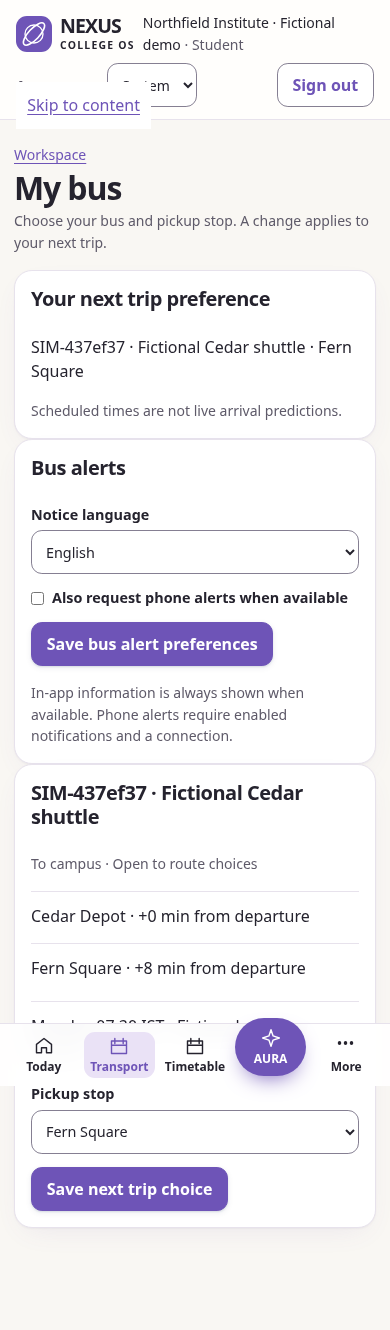
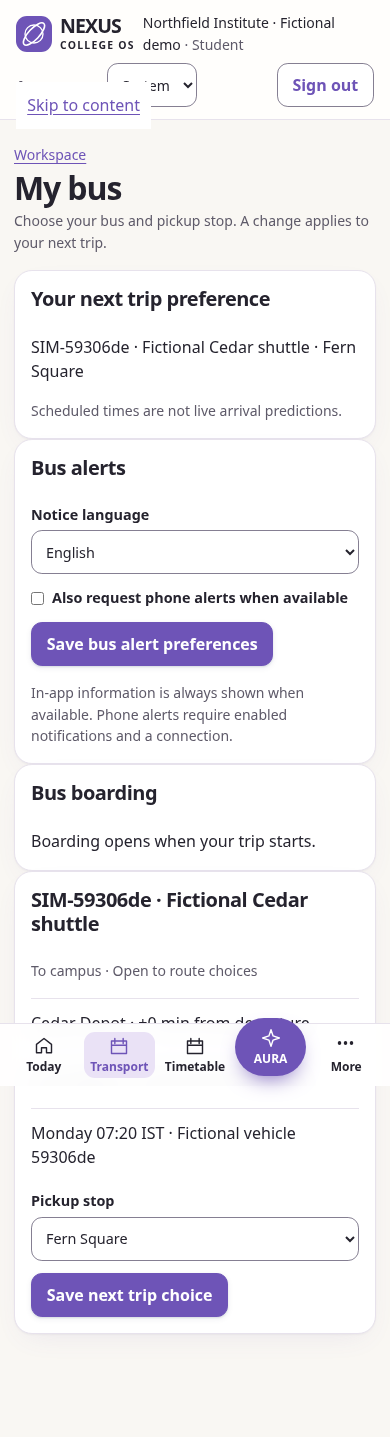
Record transport verification, mobile screenshots and integration gates

diff --git a/docs/evidence/transport-2026-11-28/README.md b/docs/evidence/transport-2026-11-28/README.md
@@ -1,0 +1,31 @@
+# Transport verification, 28 November 2026
+
+Base `a7316dd34e150c44b5ff5d39f49e8d71ab621442`. All testing used local PostgreSQL and fictional data, not real GPS or institution records.
+
+## Full run and targeted evidence
+
+| Evidence | Observed result |
+| --- | --- |
+| Fresh migrations on full-run code `2e1b0e1`, twice | 53 applied; second run no-op (includes 055–067) |
+| Seed, lint, typecheck, production build on `2e1b0e1` | Passed |
+| Node/PostgreSQL full suite on `2e1b0e1` | 174 passed |
+| Default browser suite on `2e1b0e1` | 56 passed, 11 skipped, 3 failed |
+| Synthetic transport browser suite, at 390 px on `2e1b0e1` | 2 passed, no horizontal overflow. Explicit simulation flag enabled for the otherwise skipped boarding case |
+| Tutor fixture on `2e1b0e1` | 1 passed |
+| Direct stock-form endpoint in the `2e1b0e1` production build | Loopback receipt and persistence, no active-trip writes, duplicate ACK, default knots conversion, missing/revoked binding denial |
+| Current targeted transport suite on `932c7ec` | 20 passed; migrations twice and baseline seed passed |
+| Direct parked-driver endpoint in the `932c7ec` production build | Loopback: denies inactive, unbound, missing or moving readings; permits two fresh stopped readings; coalesces repeat |
+| Separate fictional loader `de22e14` | 2 successful runs; verified 4 routes, 20 stops, 4 vehicles, 3 drivers, 10 choices, 4 simulated trips |
+
+The default browser failures were the known narrow timetable overflow (323 px at a 320 px viewport), an assignment message returning unread on reload (also observed on an earlier audit head), and the shared `app/chrome.tsx` insertion displacing Evaluation queue on the faculty mobile dock when Transport exists. The owner's correction forbids editing Chrome. The latter behavior and the required integration remedy are documented in the ledger. Do not describe this as a green repository run.
+
+The QR browser test confirms the **display** and the signed payload submitted by paste. A real camera scan on Android, HTTPS deployment, actual device tracking, removal schedules, phone delivery and institutional approval were not tested.
+
+## Actual 390 px browser captures
+
+- [First-run picker](transport-first-run-picker-390.png)
+- [Saved bus and stop after reload](transport-choice-390.png)
+- [Fictional device screen](transport-boarding-screen-390.png)
+- [Fictional rider boarding and estimated seat count](transport-rider-boarded-390.png)
+
+[Local transport handoff and outstanding integration requirements](../../TRANSPORT_LOCAL_HANDOFF.md).

diff --git a/docs/TRANSPORT_DISRUPTIONS_5B.md b/docs/TRANSPORT_DISRUPTIONS_5B.md
@@ -1,5 +1,5 @@
 # Transport 5b: disruption notice implementation handoff
-Status: deterministic copy and decision helpers locally tested. No app wiring, migration, PR, delivery, institutional permission, or working production integration.
+Status: local branch has bilingual in-app notices and receipts, an office ledger, parked-driver device gating, replacement estimates and onboard accident check-in. Scoped tests were run with fictional data. The attendance adapter, unattended worker and real institutional/device/phone-delivery approval are not established. No push, deployment or real tracking.
 
 ## States and ownership
 - Start from the authoritative trip and current route revision, not a browser-declared vehicle. For driver actions, resolve the bound boarding device and active trip, lock that trip and recheck fresh bus-owned stationary evidence; no rider backup or stale speed qualifies. If not provable, disable driver incident reporting with a clear reason and keep the office path available. Office uses an active transport grant.
@@ -24,5 +24,5 @@ Status: deterministic copy and decision helpers locally tested. No app wiring, m
 - [OSMF raster tile policy](https://operations.osmfoundation.org/policies/tiles/): use optional, lazy HTTPS tiles on visible map only, with attribution, caching and valid referer. No offline downloads/prefetch; do not send private stop labels or telemetry in tile URLs. Audit the app's global referrer policy before enabling the map; any override in shared headers belongs to integration. Text route must stay usable without maps.
 - Rider backup location must remain off until separate consent/college approval. Update the earlier bus-only privacy draft before distribution if that optional feature enters the approved pilot; track no rider location for boarding/SOS. Keep real data, any notification delivery, and live hardware out of this demo.
 
-## What is staged now
-Fictional-only Zod copy generator and pure receipt/deadline/attendance projections. These helpers do not replace server-side authorization, database locking, localization review, outbox delivery, proper attendance logic, or field testing. See test-result.txt for the standalone checks.
+## Boundaries of the local package
+Fictional-only Zod copy generator and pure receipt/deadline/attendance projections. These helpers do not replace server-side authorization, database locking, localization review, outbox delivery, proper attendance logic, or field testing. See the module evidence directory for the local test results.

diff --git a/docs/NEXUS_ENGINEERING_LEDGER.md b/docs/NEXUS_ENGINEERING_LEDGER.md
@@ -559,3 +559,5 @@ Request to integration: With the existing migration 036 navigation condition, th
 Request to integration: After teacher approval, cc/pilot-access should open the approved student's `/transport?institution=<tenant-id>&role=student` workspace. The no-choice Transport view handles the bus and pickup stop itself; sign-up should not duplicate these fields.
 
 Request to integration: Run the idempotent transport promise-warning scan on an approved durable schedule even when the office page is closed. The module currently queues a warning once per missed notice revision while the office workspace is visible. Also schedule the transport seven-day raw-position purge against approved institutions; the current office action and local test prove deletion but are not proof of automated hosting.
+
+Transport local verification (dot/transport; not yet pushed): at 2e1b0e1 fresh migration count 53, repeat no-op, baseline seed/lint/typecheck/build passed, PostgreSQL and Node 174 passed, standard Chromium 56 passed/11 skipped/3 failed, tutor fixture 1 passed. With explicit simulated device mode both targeted Chromium cases passed at 390 px. At 932c7ec the transport-only suite passed 20 tests and the parked-driver endpoint passed its loopback denial/acceptance rehearsal. Actual SIT tracking, approval and camera hardware are not verified. See docs/evidence/transport-2026-11-28/README.md.
